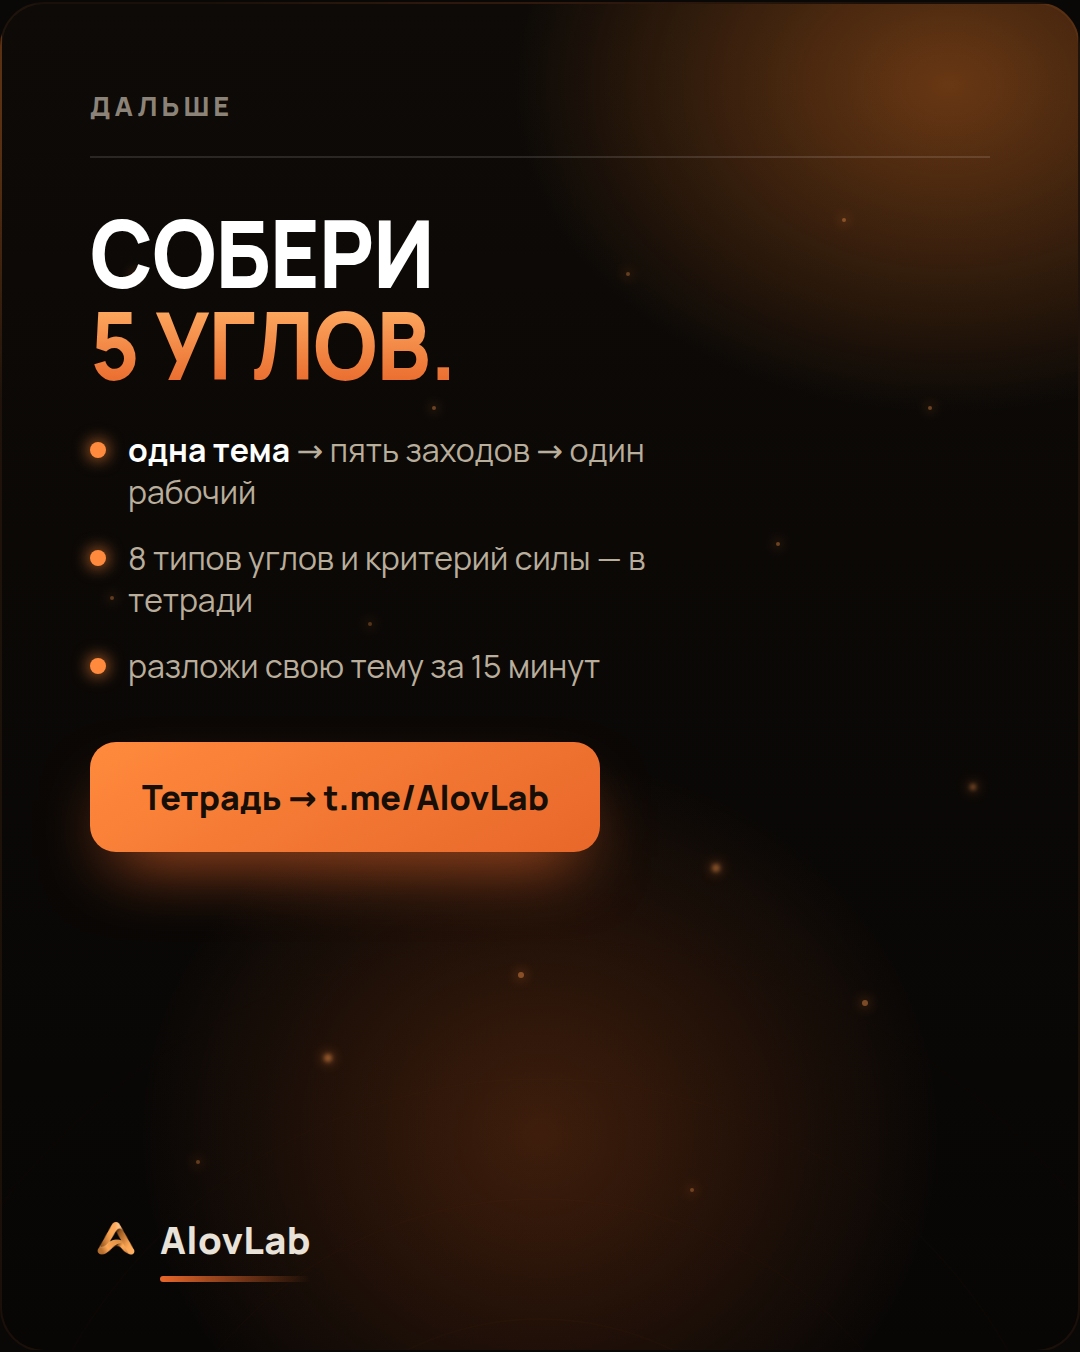
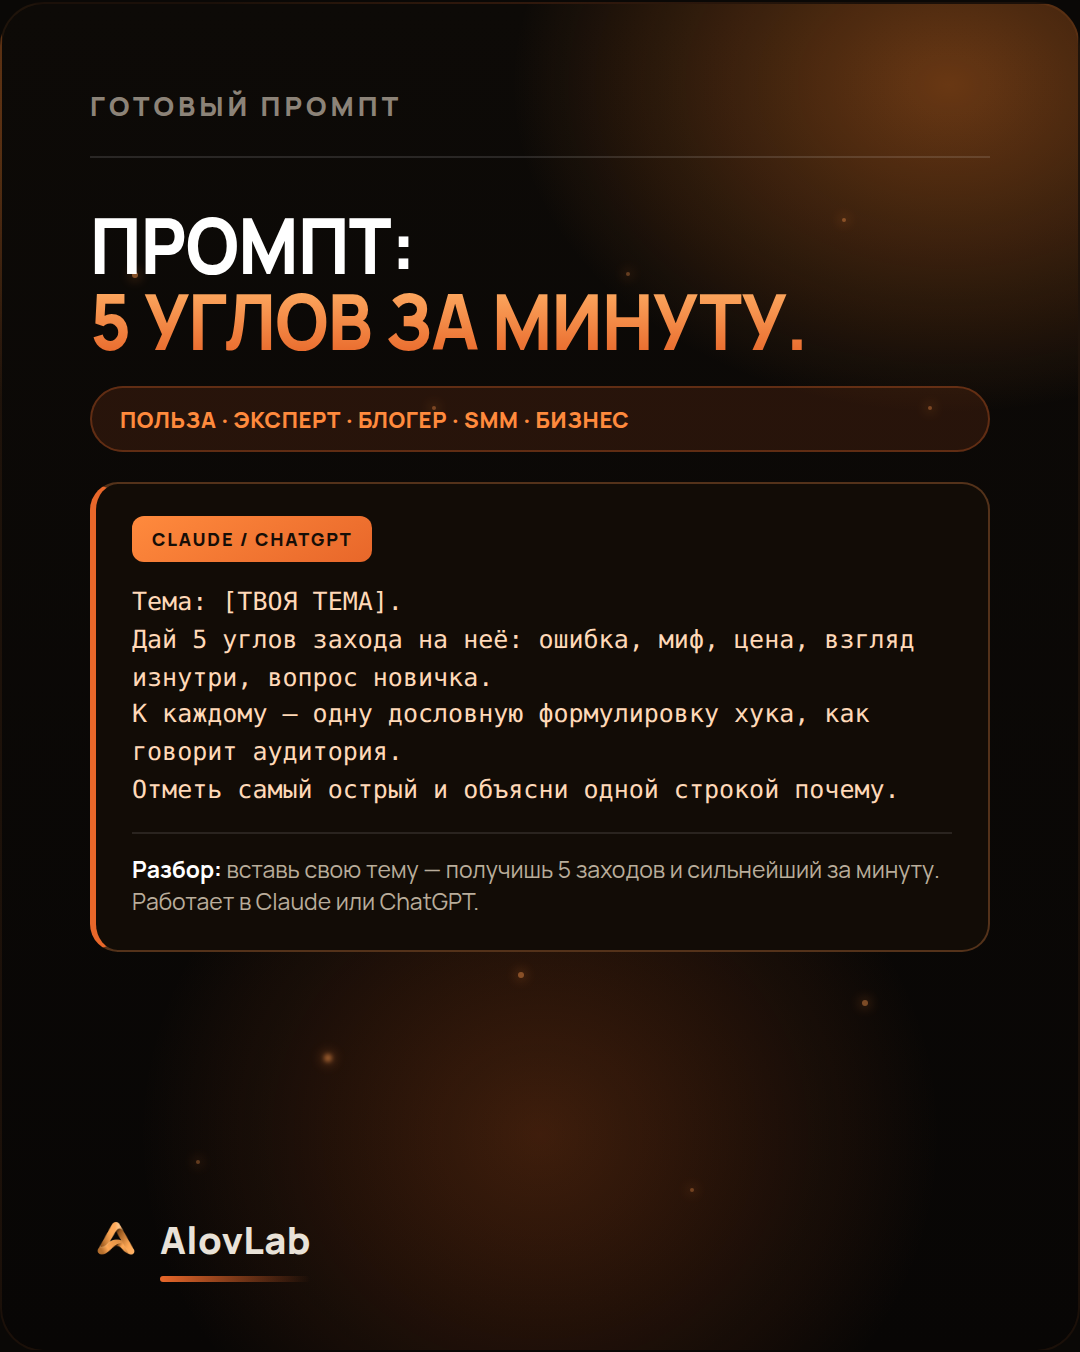
feat(day-04): пакет дня 07.08 — карусель + промпт-слайд + пост
- day-04-showcase: добавлен слайд «Готовый промпт: 5 углов за минуту» + польза (для кого).
  Теперь по правилу: польза + промпт. 8 слайдов.
- content/carousels/day-04/post.md — пост под карусель (TG/IG).

Claude-Session: https://claude.ai/code/session_019LoRMaWcrsShywAHDg8vmg

diff --git a/scripts/carousel_showcase_day4.py b/scripts/carousel_showcase_day4.py
@@ -4,10 +4,25 @@
 Переиспользует стиль из carousel_showcase_render. Запуск: python3 scripts/carousel_showcase_day4.py
 """
 import pathlib
-from carousel_showcase_render import (CSS, DEFS, FOOT, sparks, rings, icon, ICONS, LOGO, ROOT)
+from carousel_showcase_render import (CSS as CSS0, DEFS, FOOT, sparks, rings, icon, ICONS, LOGO, ROOT)
 
 OUTDIR = ROOT / "exports" / "carousels" / "day-04-showcase"; OUTDIR.mkdir(parents=True, exist_ok=True)
 OUT = OUTDIR / "day-04-showcase.html"
+
+EXTRA = r"""
+.hsm .head h2{font-size:39px}
+.pu{position:relative;z-index:4;margin-top:14px;display:inline-block;font-weight:800;font-size:11px;text-transform:uppercase;
+ letter-spacing:.03em;color:var(--o2);background:rgba(232,103,42,.13);border:1px solid rgba(232,103,42,.3);border-radius:20px;padding:8px 14px}
+.pbox{position:relative;z-index:4;margin-top:15px;background:#120c06;border:1px solid rgba(255,150,80,.28);
+ border-left:3px solid var(--o);border-radius:14px;padding:16px 18px}
+.pbox .tag{display:inline-block;font-weight:800;font-size:9px;letter-spacing:.1em;text-transform:uppercase;color:#160e07;
+ background:linear-gradient(150deg,var(--o2),var(--o));padding:5px 10px;border-radius:6px;margin-bottom:11px}
+.pbox code{display:block;font-family:'SF Mono',ui-monospace,Menlo,Consolas,monospace;font-size:12.5px;line-height:1.5;
+ color:#ffd9b8;white-space:pre-wrap;word-break:break-word}
+.pbox .ru{margin-top:11px;padding-top:10px;border-top:1px solid rgba(255,255,255,.1);font-size:11.5px;line-height:1.4;color:#b9ad9b}
+.pbox .ru b{color:#fff}
+"""
+CSS = CSS0 + EXTRA
 
 # новые иконки под углы (stroke-варианты — задаём stroke на путях, fill=none)
 ICONS.update({
@@ -58,6 +73,18 @@ SLIDES = [
  ang(3,"Угол","цены","Сколько уже потрачено впустую —","«Смена и команда — за вечер на ноутбуке».","price"),
  ang(4,"Взгляд","изнутри","Что обычно не говорят вслух —","«Что вырезают из красивых туториалов».","eye"),
  ang(5,"Вопрос","новичка","С чего вообще начать —","«Открыл нейросеть впервые — и что дальше?».","quest"),
+ f"""<article class="slide hsm">{DEFS}
+  <div class="sparks">{sparks()}</div>
+  <div class="top"><span class="eb">Готовый промпт</span></div>
+  <div class="head"><h2><span class="w">Промпт:</span><span class="o">5 углов за минуту.</span></h2></div>
+  <div class="pu">Польза · эксперт · блогер · SMM · бизнес</div>
+  <div class="pbox"><span class="tag">Claude / ChatGPT</span><code>Тема: [ТВОЯ ТЕМА].
+Дай 5 углов захода на неё: ошибка, миф, цена, взгляд изнутри, вопрос новичка.
+К каждому — одну дословную формулировку хука, как говорит аудитория.
+Отметь самый острый и объясни одной строкой почему.</code>
+    <div class="ru"><b>Разбор:</b> вставь свою тему — получишь 5 заходов и сильнейший за минуту. Работает в Claude или ChatGPT.</div></div>
+  {FOOT}
+</article>""",
  cta("Собери","5 углов.",
      ["<b>одна тема</b> → пять заходов → один рабочий",
       "8 типов углов и критерий силы — в тетради",

diff --git a/content/carousels/day-04/post.md b/content/carousels/day-04/post.md
@@ -1,0 +1,24 @@
+# Пост · День 4 · «Угол, а не тема» (07.08)
+
+Короткий, хук в первой строке, ведёт в закреп/профиль. B2C → тетрадь/курс.
+
+## Основной (Telegram)
+
+У тебя и у конкурента — одна тема. Смотрят его.
+
+Потому что он зашёл с другой стороны. Тема ничья — отличает угол: ошибка, миф, цена, взгляд изнутри, вопрос новичка.
+
+Листай — разложил тему на 5 заходов и дал промпт, чтобы собрать свои за минуту.
+
+Тетрадь и шаблон углов — в закрепе ⬆
+
+## Для Instagram (концовка)
+
+…Тетрадь и шаблон углов — ссылка в профиле → Telegram, закреп.
+
+## Хук на замену первой строки
+- «Тема у всех одна. Выигрывает угол.»
+- «Ты ищешь новую тему. А надо — новый заход к старой.»
+
+## Хэштеги (по желанию)
+`#контент #ИИдляконтента #каккоснтент #AlovLab`
